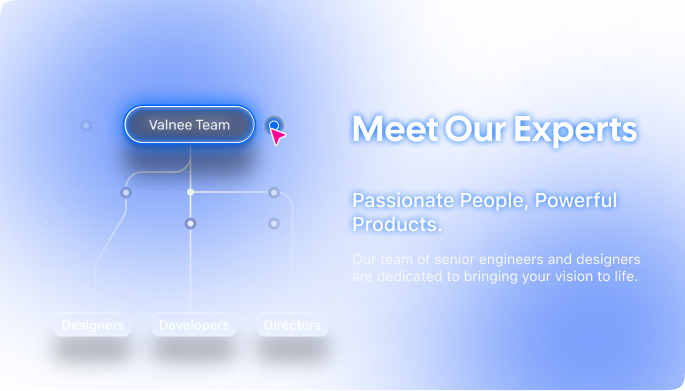
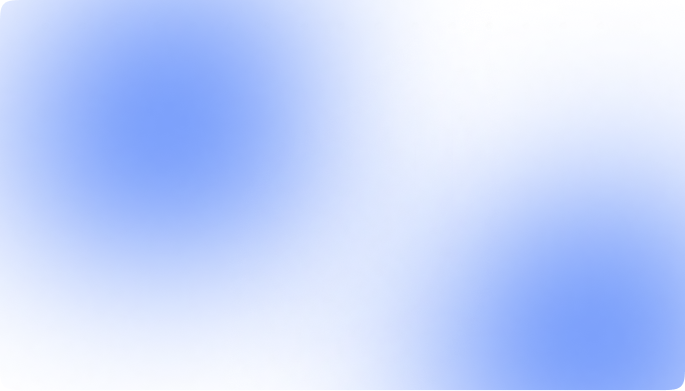
added foreground to grid

diff --git a/src/components/GridSection.tsx b/src/components/GridSection.tsx
@@ -23,24 +23,75 @@ export default function GridSection() {
     <section className="relative w-full bg-[#00020D] text-white py-20 overflow-hidden">
       <div className="relative max-w-6xl mx-auto px-4 py-8 grid grid-cols-1 lg:grid-cols-11 gap-4 z-10">
         {/* Tile 1 */}
-        <div className="w-full lg:col-span-6 bg-center rounded-xl shadow-lg flex flex-col min-h-[390px]"
+        <div className="w-full lg:col-span-6 bg-center rounded-xl bg-no-repeat shadow-lg flex flex-col min-h-[390px] items-center justify-center p-8"
           style={{ backgroundImage: "url(/images/tile1-bg.png)" }}>
-          {/* Content for Tile 1 */}
+          <Image
+            src="/images/keyboard.png"
+            alt="Keyboard"
+            width={500}
+            height={250}
+            className="mb-6"
+          />
+          <h2 className="font-sans font-normal text-2xl md:text-3xl mb-4" style={{ fontFamily: "SF Pro Display, SF Pro Text, SF UI, sans-serif" }}>
+            Let's Build Your Next Big Thing
+          </h2>
+          <p className="font-sans font-normal text-base text-white/80 text-center max-w-md" style={{ fontFamily: "SF Pro Display, SF Pro Text, SF UI, sans-serif" }}>
+            Let's schedule a free, no-obligation call to discuss your project and see how we can help bring your ideas to life.
+          </p>
         </div>
         {/* Tile 2 */}
-        <div className="w-full lg:col-span-5 bg-center rounded-xl shadow-lg flex flex-col min-h-[390px]"
+        <div className="w-full lg:col-span-5 bg-center rounded-xl bg-no-repeat shadow-lg flex flex-col min-h-[390px]"
           style={{ backgroundImage: "url(/images/tile2-bg.png)" }}>
           {/* Content for Tile 2 */}
         </div>
         {/* Tile 3 */}
-        <div className="w-full lg:col-span-5 bg-center rounded-xl shadow-lg flex flex-col min-h-[390px]"
+        <div className="w-full lg:col-span-5 bg-center rounded-xl bg-no-repeat shadow-lg flex flex-col min-h-[390px]"
           style={{ backgroundImage: "url(/images/tile3-bg.png)" }}>
           {/* Content for Tile 3 */}
         </div>
         {/* Tile 4 */}
-        <div className="w-full lg:col-span-6 bg-center rounded-xl shadow-lg flex flex-col min-h-[390px]"
+        <div className="w-full lg:col-span-6 bg-center rounded-xl bg-no-repeat shadow-lg flex flex-col md:flex-row min-h-[390px] items-center justify-center"
           style={{ backgroundImage: "url(/images/tile4-bg.png)" }}>
-          {/* Content for Tile 4 */}
+          {/* Left: Image */}
+          <div className="flex-shrink-0 flex justify-center items-center w-full md:w-1/2 mb-6 md:mb-0">
+            <Image
+              src="/images/people.png"
+              alt="People"
+              width={250}
+              height={250}
+              className="object-contain"
+            />
+          </div>
+          {/* Right: Text */}
+          <div className="flex flex-col justify-center items-start w-72 mr-20 md:mr-0 text-left px-0 md:px-4 break-words">
+            <h3
+              className="font-sans font-semibold text-xl md:text-2xl mb-2 w-full"
+              style={{
+            fontFamily: "SF Pro Display, SF Pro Text, SF UI, sans-serif",
+            textShadow: "0 2px 8px #7FDBFF, 0 1px 2px #7FDBFF"
+              }}
+            >
+              Meet Our Experts
+            </h3>
+            <h4
+              className="w-full"
+              style={{
+            textShadow: "0 2px 8px #7FDBFF, 0 1px 2px #7FDBFF"
+              }}
+            >
+              Passionate People, Powerful Products.
+            </h4>
+            <p
+              className="font-sans font-normal text-base flex-wrap text-white/80 w-full break-words"
+              style={{
+            fontFamily: "SF Pro Display, SF Pro Text, SF UI, sans-serif",
+            textShadow: "0 2px 8px #7FDBFF, 0 1px 2px #7FDBFF",
+            wordBreak: "break-word"
+              }}
+            >
+              Our team of senior engineers and designers are dedicated to bringing your vision to life.
+            </p>
+          </div>
         </div>
       </div>
     </section>
